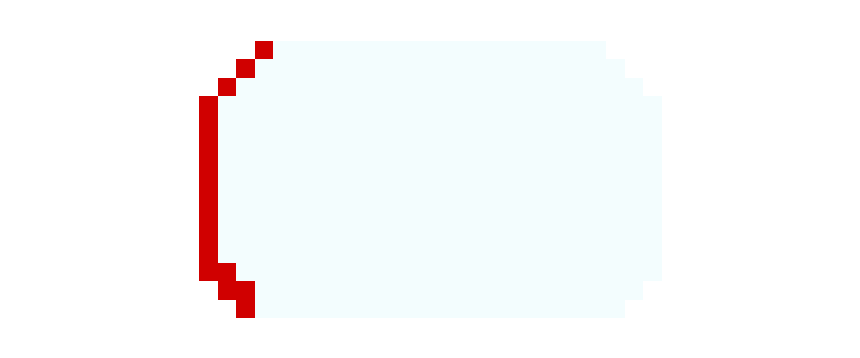
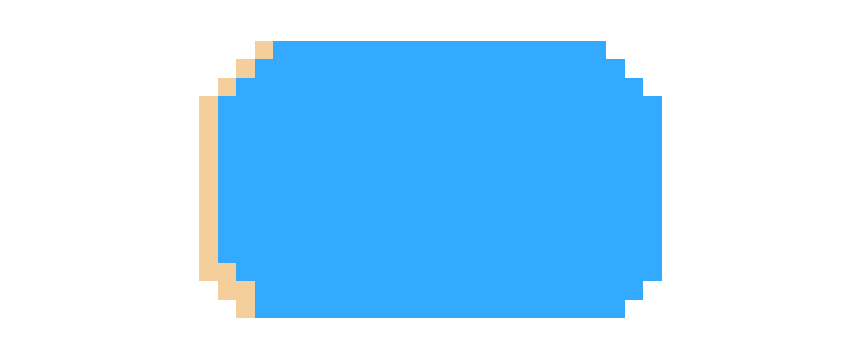
teste

diff --git a/SITE/public/js/jogo.js b/SITE/public/js/jogo.js
@@ -20,6 +20,7 @@ let obstaculoPersonagem = ["./imagens/imgEstatica/game/bola.gif"]
 let enemys = ["./imagens/imgEstatica/game/canhao.gif"]
 let obstaculoVoadorPersonagem = ["./imagens/imgEstatica/game/carne.png"]
 let backgroundPersonagem = ["./imagens/imgEstatica/game/areia.png"]
+
 let cor = ["#D00000"]
 let especialGif1 = []
 let especialGif2 = []
@@ -48,6 +49,7 @@ function jogar() {
     heart(3, 0)
     container.style.filter = "none"
     containerJogar.style.display = "none"
+    imagemContainerJogar.style.display = "none"
     barra.style.display = "flex"
     obstaculoVoador.style.display = "flex"
     obstaculo.style.display = "flex"
@@ -63,7 +65,7 @@ function jogar() {
     arvore.innerHTML = `<img src="${decoracaoFase[4]}"/>`
     enemy.innerHTML = `<img src="${enemys[personagem]}"/>`
     setInterval(dindin, 800)
-    setInterval(dead, 200)
+    setInterval(dead, 200)  
     setInterval(ganhar, 200)
 }
 
@@ -106,26 +108,27 @@ function heart(coracao, preto) {
 
 function dead() {
     var obstaculo1 = parseInt(window.getComputedStyle(obstaculo).getPropertyValue("left"));
-    if(somaXP >= 100){
-        somaXP -= 50
-        sessionStorage.xpPartida = somaXP
-    }
     if (obstaculo1 < 400 && jump == false) {
-        if (qntBatidas == 0) {
-            obstaculoVoador.style.display = "none"
-            obstaculo.style.display = "none"
-            primeiroBanner.style.animation = "bannermove 20s linear infinite"
-            player.style.filter = "drop-shadow(0px 15px 5px rgba(0, 0, 0, 0.19)) brightness(0) invert(1)"
-            heart(2, 1)
-            qntBatidas++
-            setTimeout(() => {
-                obstaculoVoador.style.display = "flex"
-                obstaculo.style.display = "flex"
-                player.style.filter = "drop-shadow(0px 15px 5px rgba(0, 0, 0, 0.19))"
-                primeiroBanner.style.animation = "bannermove 7s linear infinite"
-            }, 800)
-        } else if (qntBatidas == 1) {
-            obstaculoVoador.style.display = "none"
+        if(somaXP >= 100){
+            somaXP -= 50
+            sessionStorage.xpPartida = somaXP
+        }
+        if(obstaculo1 > 50){
+            if (qntBatidas == 0) {
+                obstaculoVoador.style.display = "none"
+                obstaculo.style.display = "none"
+                primeiroBanner.style.animation = "bannermove 20s linear infinite"
+                player.style.filter = "drop-shadow(0px 15px 5px rgba(0, 0, 0, 0.19)) brightness(0) invert(1)"
+                heart(2, 1)
+                qntBatidas++
+                setTimeout(() => {
+                    obstaculoVoador.style.display = "flex"
+                    obstaculo.style.display = "flex"
+                    player.style.filter = "drop-shadow(0px 15px 5px rgba(0, 0, 0, 0.19))"
+                    primeiroBanner.style.animation = "bannermove 7s linear infinite"
+                }, 800)
+            } else if (qntBatidas == 1) {
+                obstaculoVoador.style.display = "none"
             obstaculo.style.display = "none"
             primeiroBanner.style.animation = "bannermove 20s linear infinite"
             player.style.filter = "drop-shadow(0px 15px 5px rgba(0, 0, 0, 0.19)) brightness(0) invert(1)"
@@ -166,26 +169,28 @@ function dead() {
             setInterval(dead, 200)
 
             setTimeout(() => {
-                containerJogar.innerHTML = `<h1 id="containerJogarRunPiece">RUN PIECE</h1>
-                XP GANHO: ${sessionStorage.xpPartida}
-                <h1>FASE 1</h1> <h2>MISSÃO</h2>
-                <span>PEGUE 5 CARNES</span>
-                <span id="qntPega">VOCÊ PEGOU: ${moeda}</span>
+                containerJogar.innerHTML = `
+                <div id="boxTexto">
+                <h1 style="left: 15vw;">---GAME OVER---</h1> 
+                <h2>XP GANHO: ${sessionStorage.xpPartida}</h2>
+                <span>VOCÊ PEGOU: ${moeda}</span>
                 </div>
-                <img src="./imagens/imgEstatica/game/quadro.png" alt="">
-                <a href="JOGO.html"><button>RETRY</button></a>
-                <a href="index.html"><button>INÍCIO</button></a>`
+                <button id="btnJogar" onclick="jogar()">RETRY</button>
+                <a href="instrucoes.html"><button id="btnComo">COMO JOGAR</button></a>`
+                container.style.filter = "brightness(0.7) blur(4px)"
                 containerJogar.style.display = "flex"
+                imagemContainerJogar.style.display = "flex"
             }, 2000)
         }
     }
 }
+}
 
 function dindin() {
     var obstaculoVoador1 = parseInt(window.getComputedStyle(obstaculoVoador).getPropertyValue("left"))
-    if (jump == true && obstaculoVoador1 < 800) {
+    if (jump == true && obstaculoVoador1 < 700) {
         if (controleMoeda == false) {
-            somaXP += 100
+            somaXP += 200
             sessionStorage.xpPartida = somaXP
             obstaculoVoador.innerHTML = ``
             moeda = moeda + 1
@@ -260,11 +265,11 @@ function especial3() {
 
 function ganhar() {
     if (personagem == 0){
-        if(moeda == 1){
+        if(moeda == 5){
             obstaculoVoador.style.display = "none"
             obstaculo.style.display = "none"
 
-            player.innerHTML = ` <img id="luffyCorrendo" src="${jumpPersonagem[personagem]}" />`
+            player.innerHTML = ` <img id="luffyCorrendo" src="${jumpPersonagem[personagem]}"/>`
             controleJogando = false
             barra.style.display = "none"
             obstaculoVoador.style.display = "none"
@@ -284,16 +289,19 @@ function ganhar() {
             setInterval(dead, 200)
 
             setTimeout(() => {
-                containerJogar.innerHTML = `<h1 id="containerJogarRunPiece">RUN PIECE</h1>
-                XP GANHO: ${sessionStorage.xpPartida}
-                <h1>FASE 1</h1> <h2>MISSÃO</h2>
-                <span>PEGUE 5 CARNES</span>
-                <span id="qntPega">VOCÊ PEGOU: ${moeda}</span>
-                </div>
-                <img src="./imagens/imgEstatica/game/quadro.png" alt="">
-                <button onclick="mudarPersonagem()">CONTINUAR</button>
-                <a href="JOGO.html"><button>RETRY</button></a>
-                <a href="index.html"><button>INÍCIO</button></a>`
+                containerJogar.innerHTML = `
+                <div id="boxTexto">
+            <h1>---PARABÉNS---</h1> 
+            <h2>VOCÊ DESBLOQUEOU A FASE 2!</h2>
+            <span>APERTE EM CONTINUAR PARA JOGAR</span>
+        </div>
+        <button id="btnMudar" onclick="mudarPersonagem()">CONTINUAR</button>
+        <a href="index.html"><button id="btnInicio">INÍCIO</button></a>
+        <a href="JOGO.html"><button id="btnRetry">RETRY</button></a>
+                `
+                container.style.filter = "brightness(0.7) blur(4px)"
+                containerJogar.style.display = "flex"
+                imagemContainerJogar.style.display = "flex"
                 containerJogar.style.display = "flex"
             }, 2000)
         }

diff --git a/SITE/public/css/jogo.css b/SITE/public/css/jogo.css
@@ -20,6 +20,7 @@
     user-select: none;
     font-family: dogica-pixel;
     image-rendering: pixelated;
+    line-height: 3vh;
 }
 
 body {
@@ -35,11 +36,11 @@ body {
     z-index: 50;
 }
 
-#containerJogar{
+#containerJogar {
     position: absolute;
     display: flex;
     top: 10vh;
-    left: 15vw;
+    left: 20vw;
     flex-direction: column;
     position: absolute;
     padding: 5vw;
@@ -47,48 +48,41 @@ body {
     justify-content: space-around;
     align-items: flex-start;
     border-radius: 2vw;
-    background-color: rgba(34, 48, 52, 0.7);
+    /* background-color: rgba(34, 48, 52, 0.7); */
     z-index: 100;
     height: 60vh;
 }
-#containerJogar img{
-    filter: brightness(0.8);
+#imagemContainerJogar {
+    filter: brightness(0.9) hue-rotate(340deg);
     position: absolute;
-    left: 20vw;
-    width: 60vw;
-    height: 55vh;
-    z-index: 1;
+    left: -16vw;
+    bottom: 3vh;
+    width: 130vw;
+    height: 100vh;
+    z-index: 99;
 }
-
 #containerJogar button {
-    margin-right: 20vh;
-    background-color: #60d2f6;
-    border:none;
+    font-size: 1vw;
+    background-color: #296579;
+    border: none;
     color: white;
     font-family: dogica-pixel-bold;
     padding: 2vw;
-    border-radius: 1vw;
+    border-radius: 0.9vw;
     color: #eeeeee;
+    position: absolute;
+    left: 40vw;
+    /* top: 30vh; */
     user-select: none;
-    background: linear-gradient(to top, rgba(0, 138, 255, 0.5), rgba(0, 255, 231, 0.5));
-    animation: animacaoRGB 10s linear infinite;
-    transition: 3s;
 }
-@keyframes animacaoRGB{
-    0%, 100%{
-        filter: hue-rotate(0deg);
-        border: none;
-    }
-    50%{
-        filter: hue-rotate(-180deg);
-        border: none;
-    }
+#containerJogar button:hover {
+    background-color: #60d2f6;
 }
 #containerJogar h1 {
     z-index: 2;
     position: absolute;
-    left: 44.5vw;
-    top: 25vh;
+    left: 16vw;
+    top: 8vh;
     color: white;
     font-family: dogica-pixel-bold;
     padding: 2vw;
@@ -98,8 +92,8 @@ body {
 #containerJogar h2 {
     z-index: 2;
     position: absolute;
-    left: 45vw;
-    top: 33vh;
+    left: 4.9vw;
+    top: 25vh;
     color: white;
     font-family: dogica-pixel-bold;
     padding: 2vw;
@@ -109,22 +103,46 @@ body {
 #containerJogar span {
     z-index: 2;
     position: absolute;
-    left: 43vw;
-    top: 42vh;
+    left: 5vw;
+    top: 35vh;
     color: white;
     font-family: dogica-pixel-bold;
     padding: 2vw;
     border-radius: 1vw;
     color: #eeeeee;
     font-size: 1vw;
+    width: 15vw;
 }
 #containerJogar #qntPega {
     top: 50vh !important;
 }
-#containerJogarRunPiece{
-    top: 10vh !important;
-    left: 2vw !important;
-
+#containerBtn {
+    display: flex;
+    width: 40vw;
+    height: 60vh;
+    justify-content: space-around;
+}
+#btnJogar {
+    top: 28vh;
+    left: 36.5vw !important;
+}
+#btnRetry {
+    top: 55vh;
+    left: 40vw !important;
+}
+#btnComo {
+    width: 18vw;
+    top: 35vh;
+    left: 32vw !important;
+    margin-top: 10vh;
+}
+#btnMudar {
+    top: 40vh;
+    left: 36.5vw !important;
+}
+#btnInicio {
+    top: 25vh;
+    left: 40vw !important;
 }
 
 #vida {
@@ -143,8 +161,7 @@ body {
     height: 4.5vh;
 }
 
-/*photobanner*/
-
+/*CONFIGURAÇÃO DA FOTO DO BANNER*/
 .photobanner {
     position: absolute;
     padding-left: -5vw;
@@ -177,15 +194,12 @@ body {
     }
 
 }
-
-
 /* CONFIGURAÇÃO DA DIV GAME */
 #game {
     height: 99vh;
     overflow-y: hidden;
     overflow-x: hidden;
 }
-
 /* CONFIGURAÇÃO DO TAMANHO DO PLAYER E OBSTACULOS */
 #obstaculo > img {
     width: 6vh;
@@ -239,7 +253,7 @@ body {
 
 #obstaculoVoador {
     z-index: 15;
-    left: 100vh;
+    /* left: 70vh; */
     top: -20vh;
     position: relative;
     animation: obstaculoVoador 5s infinite linear;

diff --git a/SITE/public/jogo.html b/SITE/public/jogo.html
@@ -20,7 +20,7 @@
             <div id="vida">
             </div>
             <div id="player">
-                <img id="luffyParado" src="./imagens/gifs/personagemGifs/luffyParado.gif"/>
+                <img id="luffyParado" src="./imagens/gifs/personagemGifs/stop.gif"/>
             </div>
             <div id="obstaculo">
             </div>
@@ -47,15 +47,16 @@
             </div>
         </div>
     </div>
+        <img id="imagemContainerJogar" src="./imagens/imgEstatica/game/quadro.png" alt="">
     <div id="containerJogar">
         <div id="boxTexto">
-            <h1 id="containerJogarRunPiece">RUN PIECE</h1>
-            <h1>FASE 1</h1> <h2>MISSÃO</h2>
-            <span>PEGUE 5 CARNES</span>
+            <h1>---FASE 1---</h1> 
+            <h2>MISSÃO</h2>
+            <span>PEGUE 5 CARNES PARA DESBLOQUEAR A FASE 2!</span>
         </div>
-        <img src="./imagens/imgEstatica/game/quadro.png" alt="">
-        <button onclick="jogar()">JOGAR</button>
-        <a href="instrucoes.html"><button>COMO JOGAR</button></a>
+            <button id="btnJogar" onclick="jogar()">JOGAR</button>
+            <a href="instrucoes.html"><button id="btnComo">COMO JOGAR</button></a>
+            
     </div>
 </body>
 

diff --git a/SITE/public/css/style.css b/SITE/public/css/style.css
@@ -21,6 +21,7 @@
     color: white;
     background-color: #DAA167;
     font-family: dogica-pixel;
+    line-height: 3vh;
 }
 * img {
     background: transparent;
